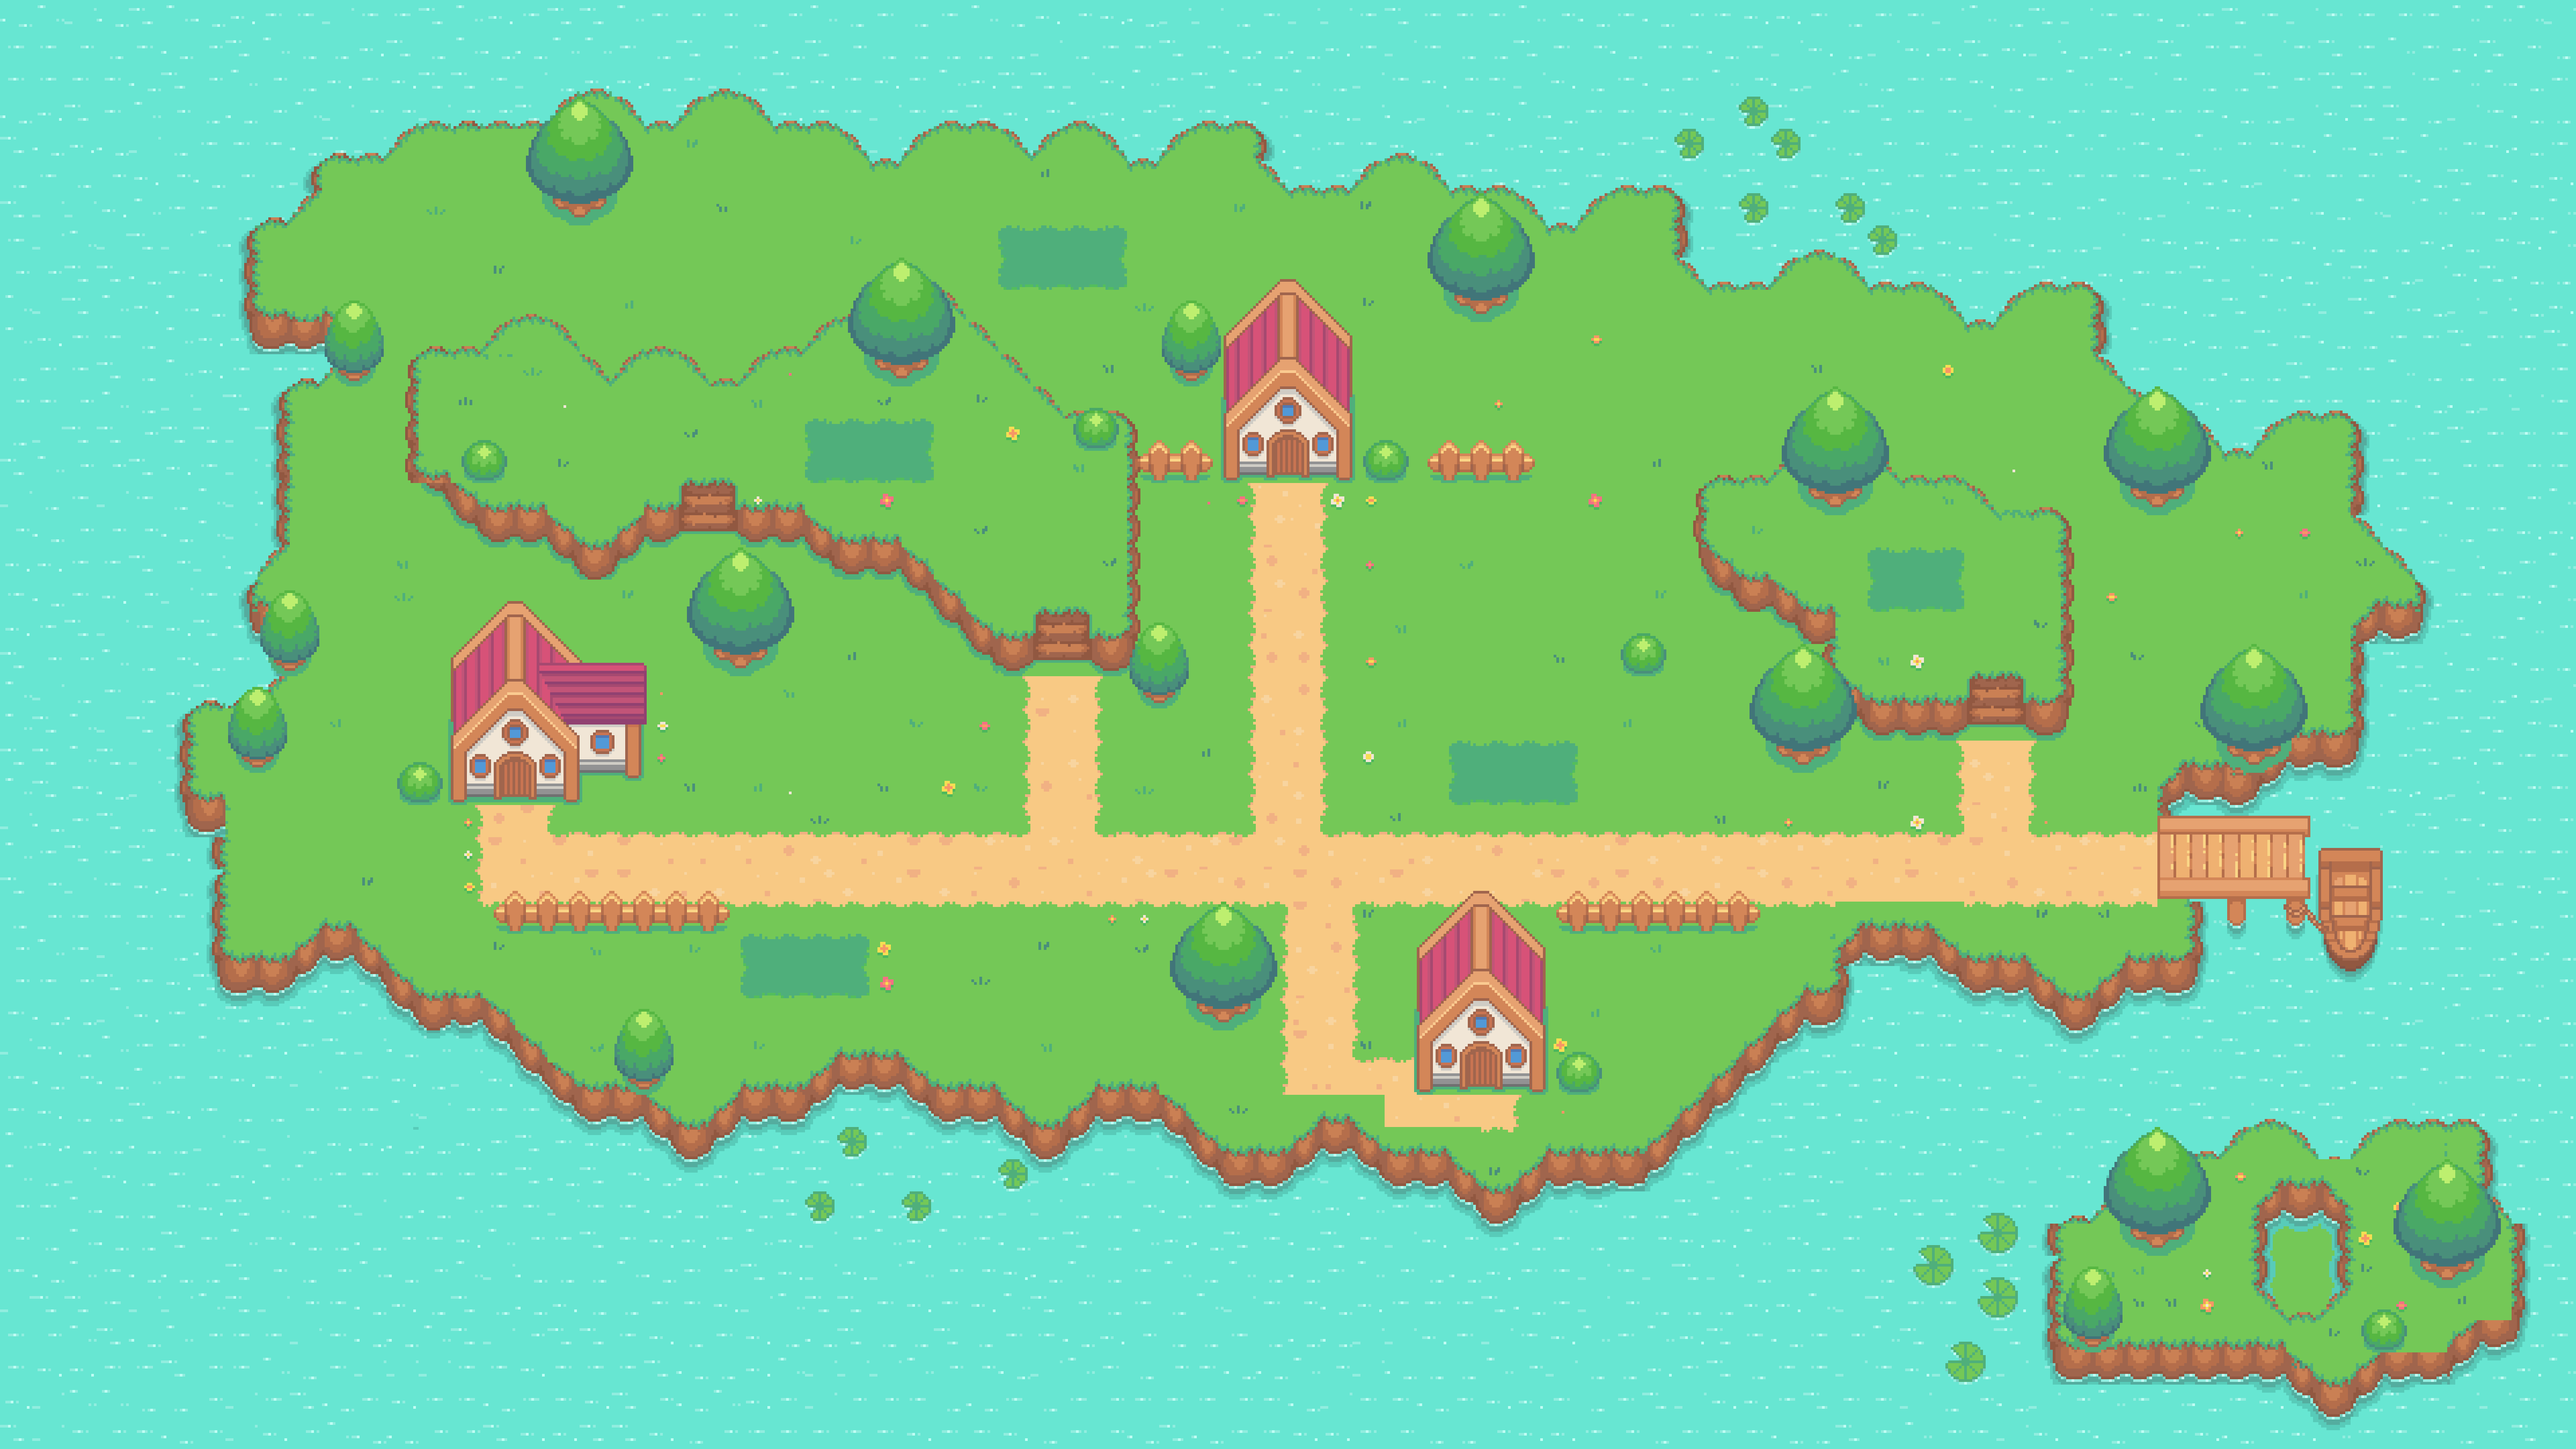
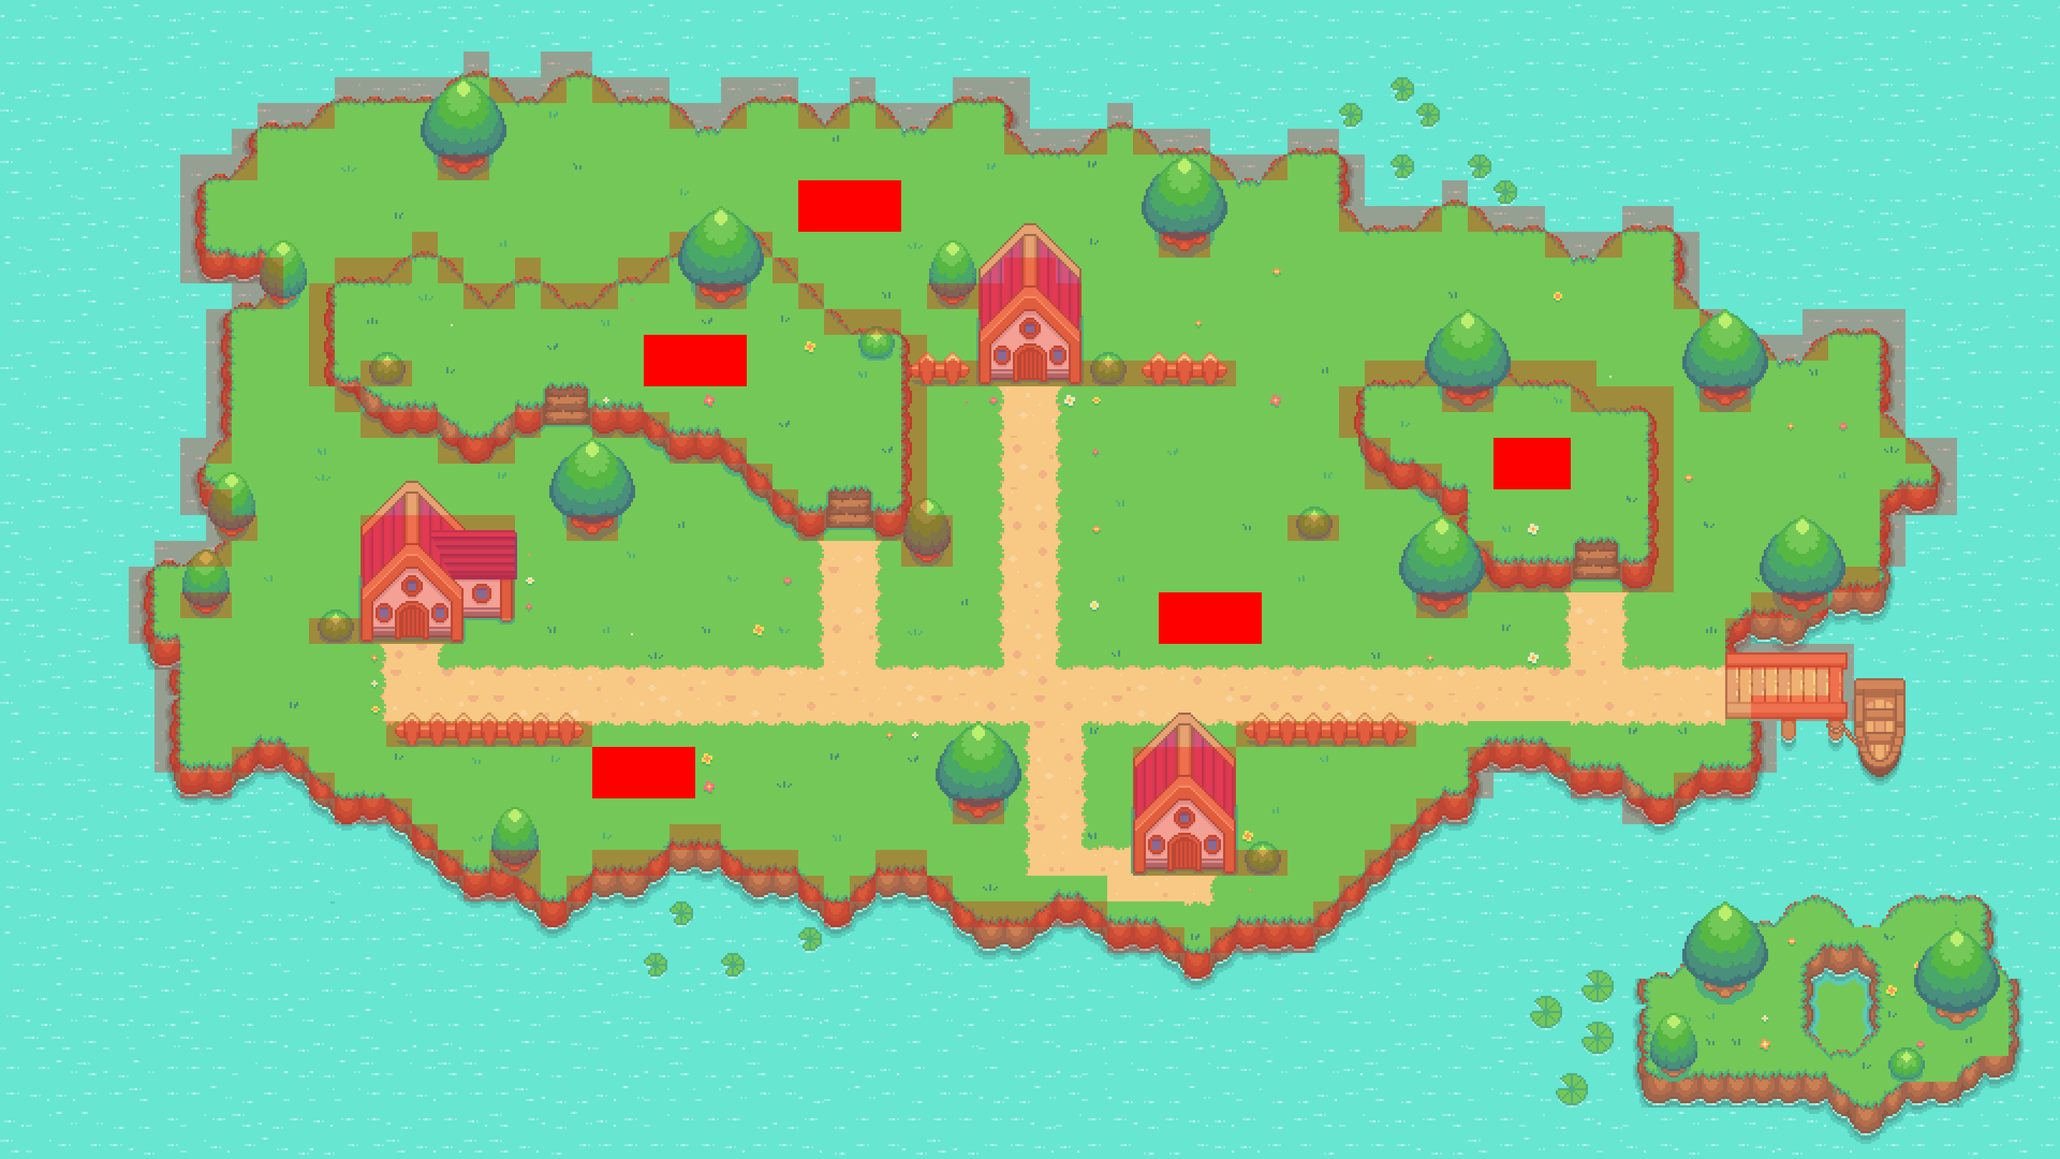
character movement update

diff --git a/index.js b/index.js
@@ -1,14 +1,54 @@
 const canvas = document.querySelector('canvas');
 const c = canvas.getContext('2d');
 
+c.fillStyle = 'grey'
+c.fillRect(0, 0, canvas.width, canvas.height);
 
 // Adding the Map at the screen //  
+
 
 canvas.width = 1366;
 canvas.height = 768;
 
-c.fillStyle = 'grey'
-c.fillRect(0, 0, canvas.width, canvas.height);
+const collisionsMap = []
+for (let i = 0; i < collisions.length; i += 80) {
+    collisionsMap.push(collisions.slice(i, 80 + i))
+}
+
+class Boundary {
+    static width = 48
+    static height = 48
+    constructor({ position }) {
+        this.position = position
+        this.width = 48
+        this.height = 48
+    }
+    draw() {
+        c.fillStyle = 'red'
+        c.fillRect(this.position.x, this.position.y, this.width, this.height)
+    }
+}
+
+const boundaries = []
+const offset = {
+    x: -85,
+    y: -810
+}
+
+collisionsMap.forEach((row, i) => {
+    row.forEach((symbol, j) => {
+        if (symbol === 1025)
+            boundaries.push(
+                new Boundary({
+                    position: {
+                        x: j * Boundary.width + offset.x,
+                        y: i * Boundary.height + offset.y
+                    }
+                })
+            )
+    })
+})
+
 
 const image = new Image();
 image.src = './img/rainCouverTown.png';
@@ -26,14 +66,27 @@ class Sprite {
     }
 
     draw() {
-        c.drawImage(this.image, this.position.x, this.position.y);
+        c.drawImage(this.image, this.position.x, this.position.y)
+        c.drawImage(
+            this.image,
+            0,
+            0,
+            this.image.width / 4,
+            this.image.height,
+            canvas.width / 2 - this.image.width / 4 / 2,
+            canvas.height / 2 - this.image.height / 2,
+            this.image.width / 4,
+            this.image.height,
+        );
     }
 }
 
+
+
 const background = new Sprite({
     position: {
-        x: -278,
-        y: -1140
+        x: offset.x,
+        y: offset.y
     },
     image: image
 })
@@ -53,26 +106,43 @@ const keys = {
     },
 }
 
+const testBoundary = new Boundary({
+    position: {
+        x: 400,
+        y: 400
+    }
+})
+
+
+const movables = [background, testBoundary]
 function animate() {
     window.requestAnimationFrame(animate)
     background.draw()
-    c.drawImage(
-        playerImage,
-        0,
-        0,
-        playerImage.width / 4,
-        playerImage.height,
-        canvas.width / 2 - playerImage.width / 4 / 2,
-        canvas.height / 2 - playerImage.height / 2,
-        playerImage.width / 4,
-        playerImage.height,
-    )
+    //    boundaries.forEach(boundary => {
+    //        boundary.draw()
+    //    })
+    testBoundary.draw()
 
-    if (keys.w.pressed && lastKey == 'w') background.position.y += 3
-    else if (keys.a.pressed && lastKey == 'a') background.position.x += 3
-    else if (keys.s.pressed && lastKey == 's') background.position.y -= 3
-    else if (keys.d.pressed && lastKey == 'd') background.position.x -= 3
 
+    // if (player.position.x + player.width)
+
+    if (keys.w.pressed && lastKey == 'w') {
+        movables.forEach((movable) => {
+            movable.position.y += 3
+        })
+    } else if (keys.a.pressed && lastKey == 'a') {
+        movables.forEach((movable) => {
+            movable.position.x += 3
+        })
+    } else if (keys.s.pressed && lastKey == 's') {
+        movables.forEach((movable) => {
+            movable.position.y -= 3
+        })
+    } else if (keys.d.pressed && lastKey == 'd') {
+        movables.forEach((movable) => {
+            movable.position.x -= 3
+        })
+    }
 }
 animate()
 
@@ -116,3 +186,4 @@ window.addEventListener('keyup', (e) => {
             break
     }
 })
+

diff --git a/data/collisions.js b/data/collisions.js
@@ -42,4 +42,4 @@ const collisions = [0, 0, 0, 0, 0, 0, 0, 0, 0, 0, 0, 0, 0, 0, 0, 0, 0, 0, 0, 0, 
     0, 0, 0, 0, 0, 0, 0, 0, 0, 0, 0, 0, 0, 0, 0, 0, 0, 0, 0, 0, 0, 0, 0, 0, 0, 0, 0, 0, 0, 0, 0, 0, 0, 0, 0, 0, 0, 0, 0, 0, 0, 0, 0, 0, 0, 0, 0, 0, 0, 0, 0, 0, 0, 0, 0, 0, 0, 0, 0, 0, 0, 0, 0, 0, 0, 0, 0, 0, 0, 0, 0, 0, 0, 0, 0, 0, 0, 0, 0, 0,
     0, 0, 0, 0, 0, 0, 0, 0, 0, 0, 0, 0, 0, 0, 0, 0, 0, 0, 0, 0, 0, 0, 0, 0, 0, 0, 0, 0, 0, 0, 0, 0, 0, 0, 0, 0, 0, 0, 0, 0, 0, 0, 0, 0, 0, 0, 0, 0, 0, 0, 0, 0, 0, 0, 0, 0, 0, 0, 0, 0, 0, 0, 0, 0, 0, 0, 0, 0, 0, 0, 0, 0, 0, 0, 0, 0, 0, 0, 0, 0,
     0, 0, 0, 0, 0, 0, 0, 0, 0, 0, 0, 0, 0, 0, 0, 0, 0, 0, 0, 0, 0, 0, 0, 0, 0, 0, 0, 0, 0, 0, 0, 0, 0, 0, 0, 0, 0, 0, 0, 0, 0, 0, 0, 0, 0, 0, 0, 0, 0, 0, 0, 0, 0, 0, 0, 0, 0, 0, 0, 0, 0, 0, 0, 0, 0, 0, 0, 0, 0, 0, 0, 0, 0, 0, 0, 0, 0, 0, 0, 0,
-    0, 0, 0, 0, 0, 0, 0, 0, 0, 0, 0, 0, 0, 0, 0, 0, 0, 0, 0, 0, 0, 0, 0, 0, 0, 0, 0, 0, 0, 0, 0, 0, 0, 0, 0, 0, 0, 0, 0, 0, 0, 0, 0, 0, 0, 0, 0, 0, 0, 0, 0, 0, 0, 0, 0, 0, 0, 0, 0, 0, 0, 0, 0, 0, 0, 0, 0, 0, 0, 0, 0, 0, 0, 0, 0, 0, 0, 0, 0, 0],
+    0, 0, 0, 0, 0, 0, 0, 0, 0, 0, 0, 0, 0, 0, 0, 0, 0, 0, 0, 0, 0, 0, 0, 0, 0, 0, 0, 0, 0, 0, 0, 0, 0, 0, 0, 0, 0, 0, 0, 0, 0, 0, 0, 0, 0, 0, 0, 0, 0, 0, 0, 0, 0, 0, 0, 0, 0, 0, 0, 0, 0, 0, 0, 0, 0, 0, 0, 0, 0, 0, 0, 0, 0, 0, 0, 0, 0, 0, 0, 0]

diff --git a/index.html b/index.html
@@ -6,4 +6,5 @@
 </style>
 
 <canvas></canvas>
+<script src="data/collisions.js"></script>
 <script src="index.js"></script>
